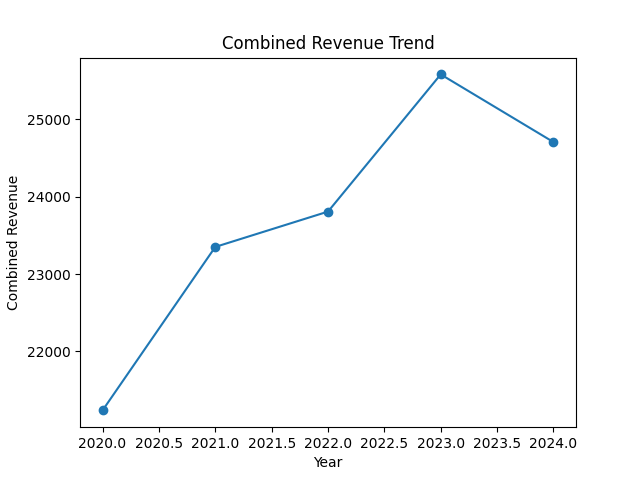
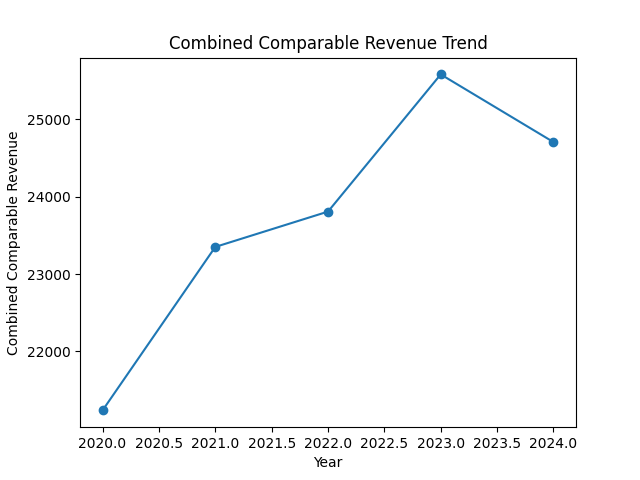
Rename revenue metric to comparable revenue

Changed region(s): [[0.25, 0.0625, 0.7812, 0.125], [0.0, 0.2812, 0.0312, 0.75]]

diff --git a/merger_analysis.py b/merger_analysis.py
@@ -1,38 +1,52 @@
 import pandas as pd
 import matplotlib.pyplot as plt
 
+# Read financial dataset
 df = pd.read_csv("data/omnicom_ipg_financials.csv")
 
-df["Operating_Margin_%"] = df["Operating_Income"] / df["Revenue"] * 100
-df["Net_Margin_%"] = df["Net_Income"] / df["Revenue"] * 100
+# Clean column names
+df.columns = df.columns.str.strip()
 
+# Rename Revenue to Comparable_Revenue for a more conservative data definition
+df = df.rename(columns={"Revenue": "Comparable_Revenue"})
+
+# Calculate profitability metrics
+df["Operating_Margin_%"] = df["Operating_Income"] / df["Comparable_Revenue"] * 100
+df["Net_Margin_%"] = df["Net_Income"] / df["Comparable_Revenue"] * 100
+
+# Round numbers for cleaner output
 df = df.round(2)
 
+# Print selected columns
 print(df[[
     "Company",
     "Year",
-    "Revenue",
+    "Comparable_Revenue",
     "Operating_Margin_%",
     "Net_Margin_%"
 ]])
+
+# Separate Omnicom and IPG data
 omnicom = df[df["Company"] == "Omnicom"]
 ipg = df[df["Company"] == "IPG"]
 
-plt.plot(omnicom["Year"], omnicom["Revenue"], marker="o", label="Omnicom")
-plt.plot(ipg["Year"], ipg["Revenue"], marker="o", label="IPG")
+# Chart 1: Comparable revenue trend
+plt.plot(omnicom["Year"], omnicom["Comparable_Revenue"], marker="o", label="Omnicom")
+plt.plot(ipg["Year"], ipg["Comparable_Revenue"], marker="o", label="IPG")
 
-plt.title("Omnicom vs IPG Revenue Trend")
+plt.title("Omnicom vs IPG Comparable Revenue Trend")
 plt.xlabel("Year")
-plt.ylabel("Revenue")
+plt.ylabel("Comparable Revenue")
 plt.legend()
 
 plt.savefig("charts/omnicom_ipg_revenue_trend.png")
 plt.show()
+
+# Chart 2: Margin trend
 plt.figure()
 
 plt.plot(omnicom["Year"], omnicom["Operating_Margin_%"], marker="o", label="Omnicom Operating Margin")
 plt.plot(ipg["Year"], ipg["Operating_Margin_%"], marker="o", label="IPG Operating Margin")
-
 plt.plot(omnicom["Year"], omnicom["Net_Margin_%"], marker="o", label="Omnicom Net Margin")
 plt.plot(ipg["Year"], ipg["Net_Margin_%"], marker="o", label="IPG Net Margin")
 
@@ -43,18 +57,24 @@ plt.legend()
 
 plt.savefig("charts/omnicom_ipg_margin_trend.png")
 plt.show()
-combined_revenue = df.groupby("Year")["Revenue"].sum().reset_index()
+
+# Combined comparable revenue
+combined_revenue = df.groupby("Year")["Comparable_Revenue"].sum().reset_index()
 
 print(combined_revenue)
+
+# Chart 3: Combined comparable revenue trend
 plt.figure()
 
-plt.plot(combined_revenue["Year"], combined_revenue["Revenue"], marker="o")
+plt.plot(combined_revenue["Year"], combined_revenue["Comparable_Revenue"], marker="o")
 
-plt.title("Combined Revenue Trend")
+plt.title("Combined Comparable Revenue Trend")
 plt.xlabel("Year")
-plt.ylabel("Combined Revenue")
+plt.ylabel("Combined Comparable Revenue")
 
 plt.savefig("charts/combined_revenue_trend.png")
 plt.show()
+
+# Export analysis outputs
 df.to_csv("data/omnicom_ipg_analysis_output.csv", index=False)
 combined_revenue.to_csv("data/combined_revenue_output.csv", index=False)